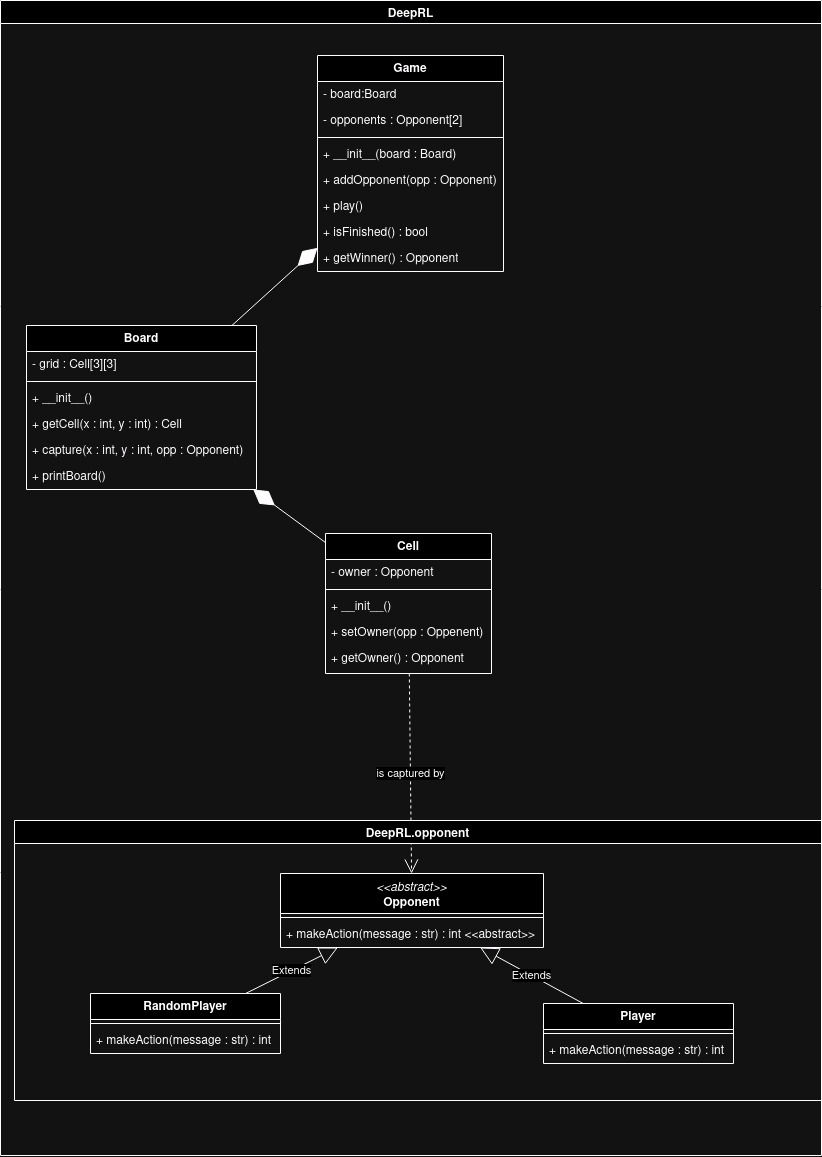
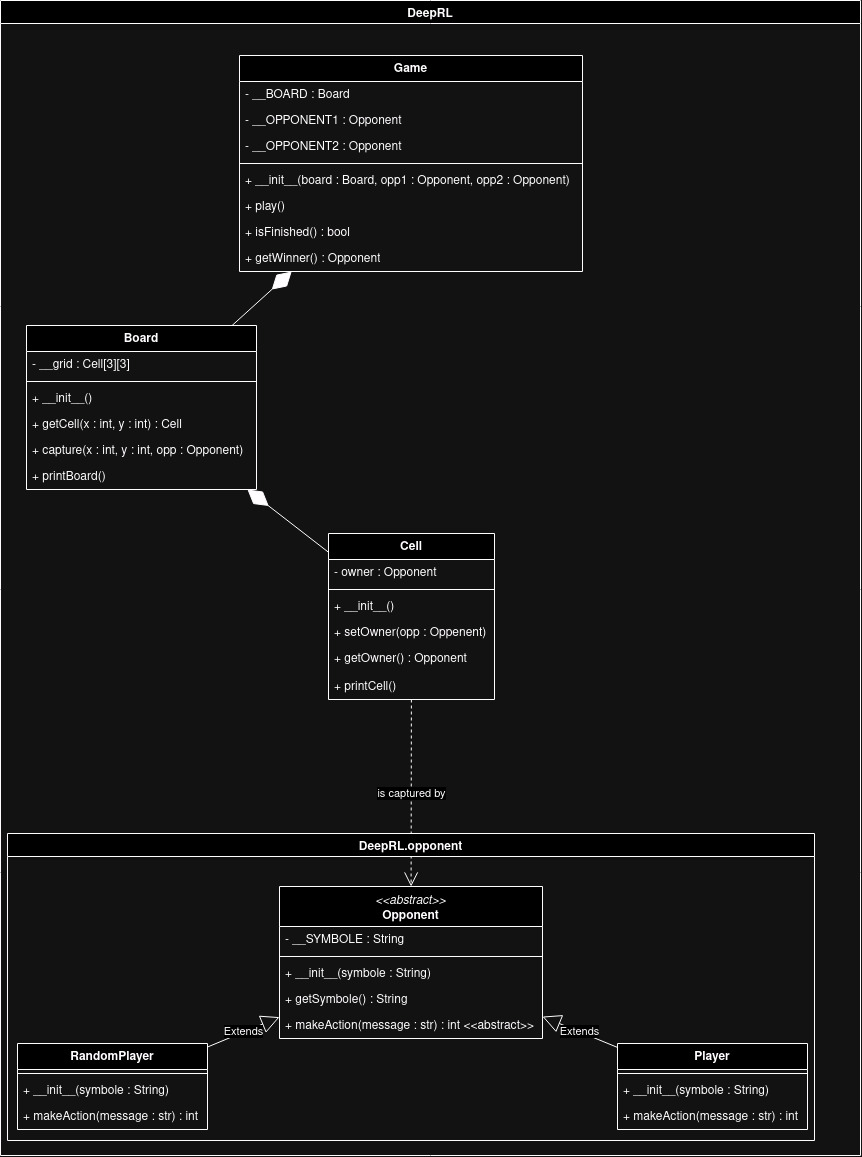
Finished UML for V0.0.2

diff --git a/README.md b/README.md
@@ -7,15 +7,15 @@ Using DeepRL to create an AI able to play generalized versions of Power4 and Tic
 
 #### First time use ?
 Generates doc + runs the program.
-- Use "make" command
+- Use make command
 
 #### Creating docs
 Generates doc of the project.
-- "make doc"
+- make doc
 
 #### Consulting docs
 
-- Go to doc directory and launch "src.html"
+- Go to doc directory and open src.html
 
 #### Running Program
 Use this to run the program without generating doc again.
@@ -25,7 +25,7 @@ Use this to run the program without generating doc again.
 
 ## State of project : V0.0.1
 
-- UML : V0.0.1
+- UML : V0.0.2
 - Doc + Test : V0.0.1
 - Code : V0.0.1
 
